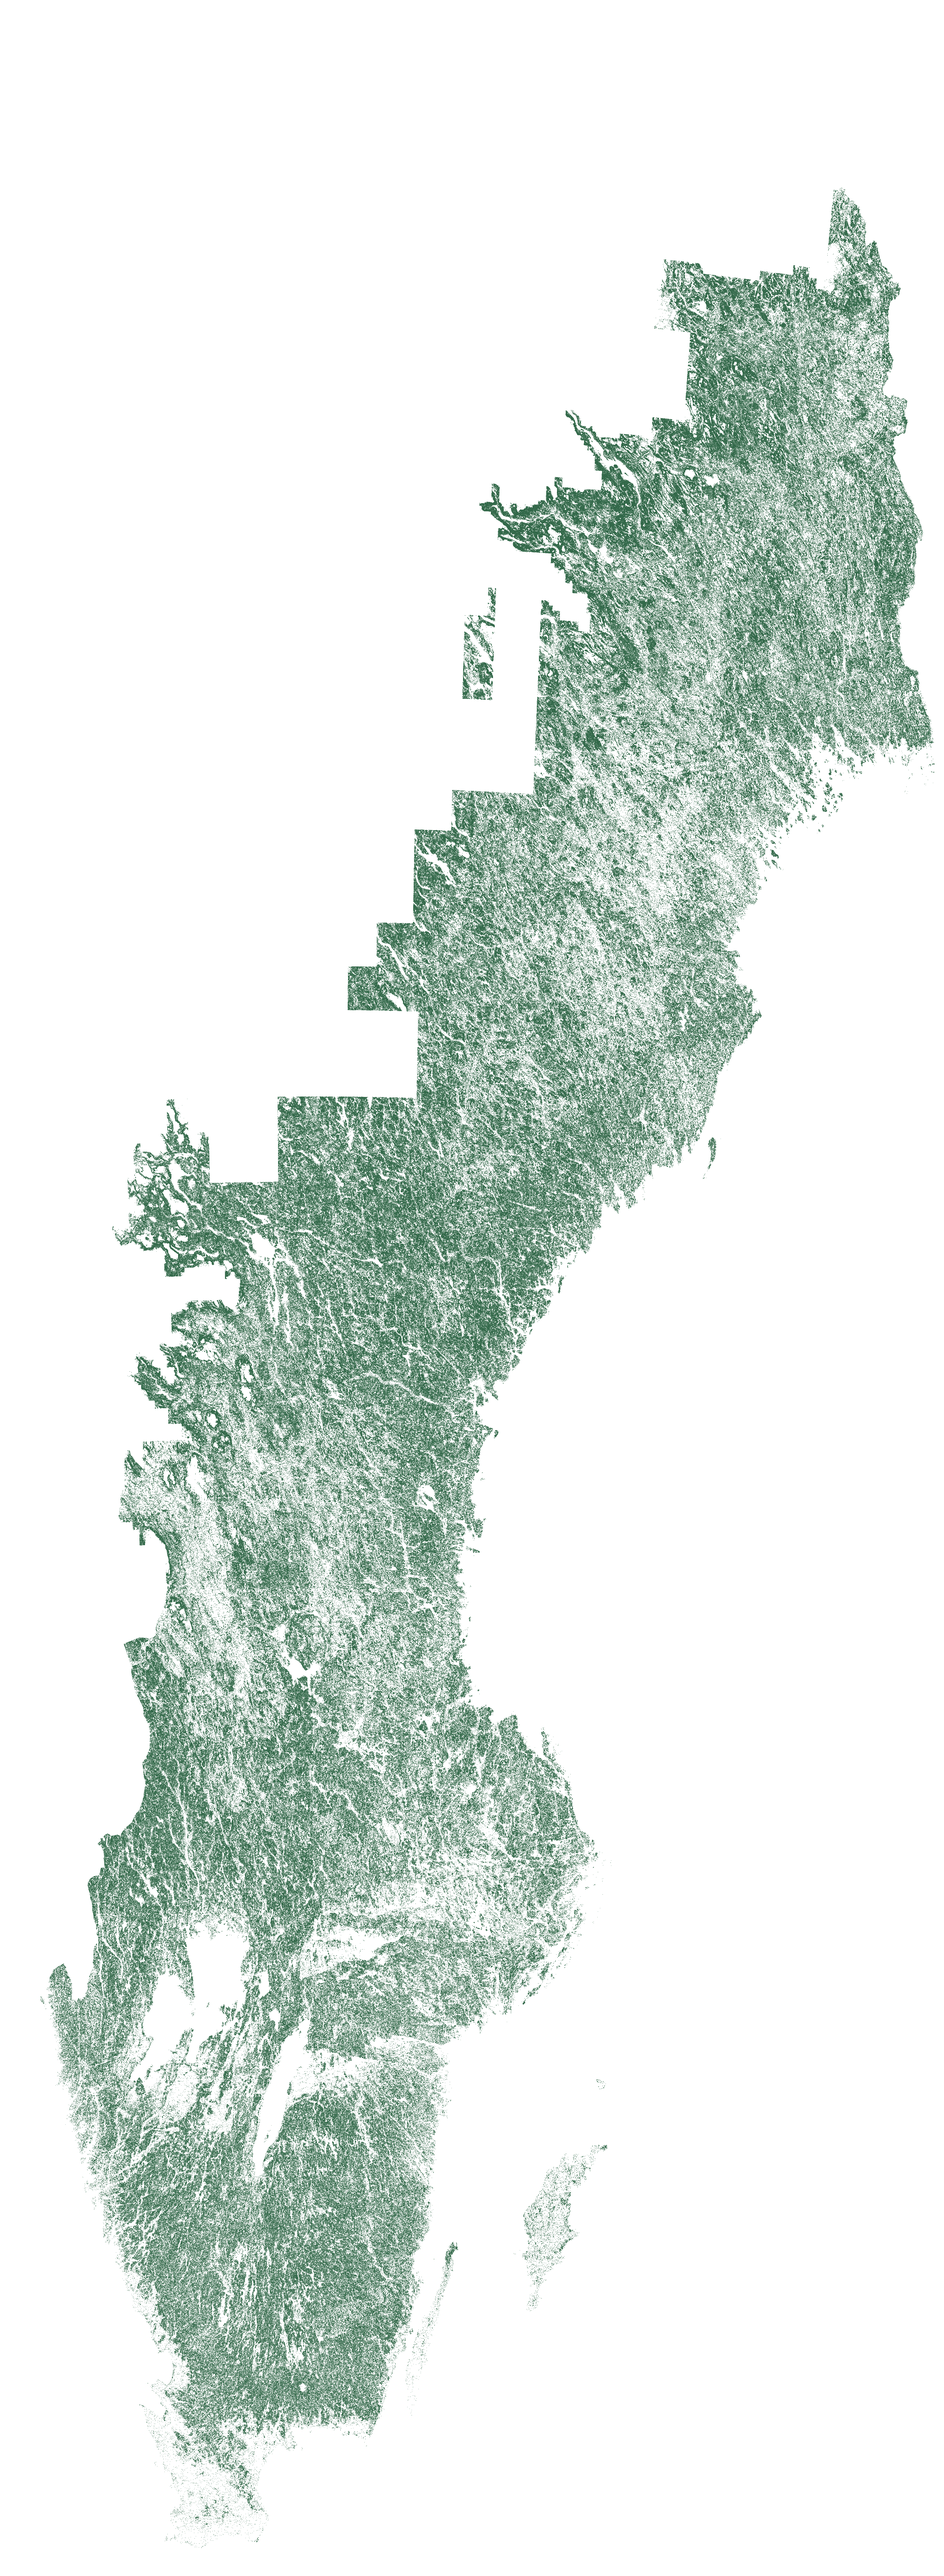
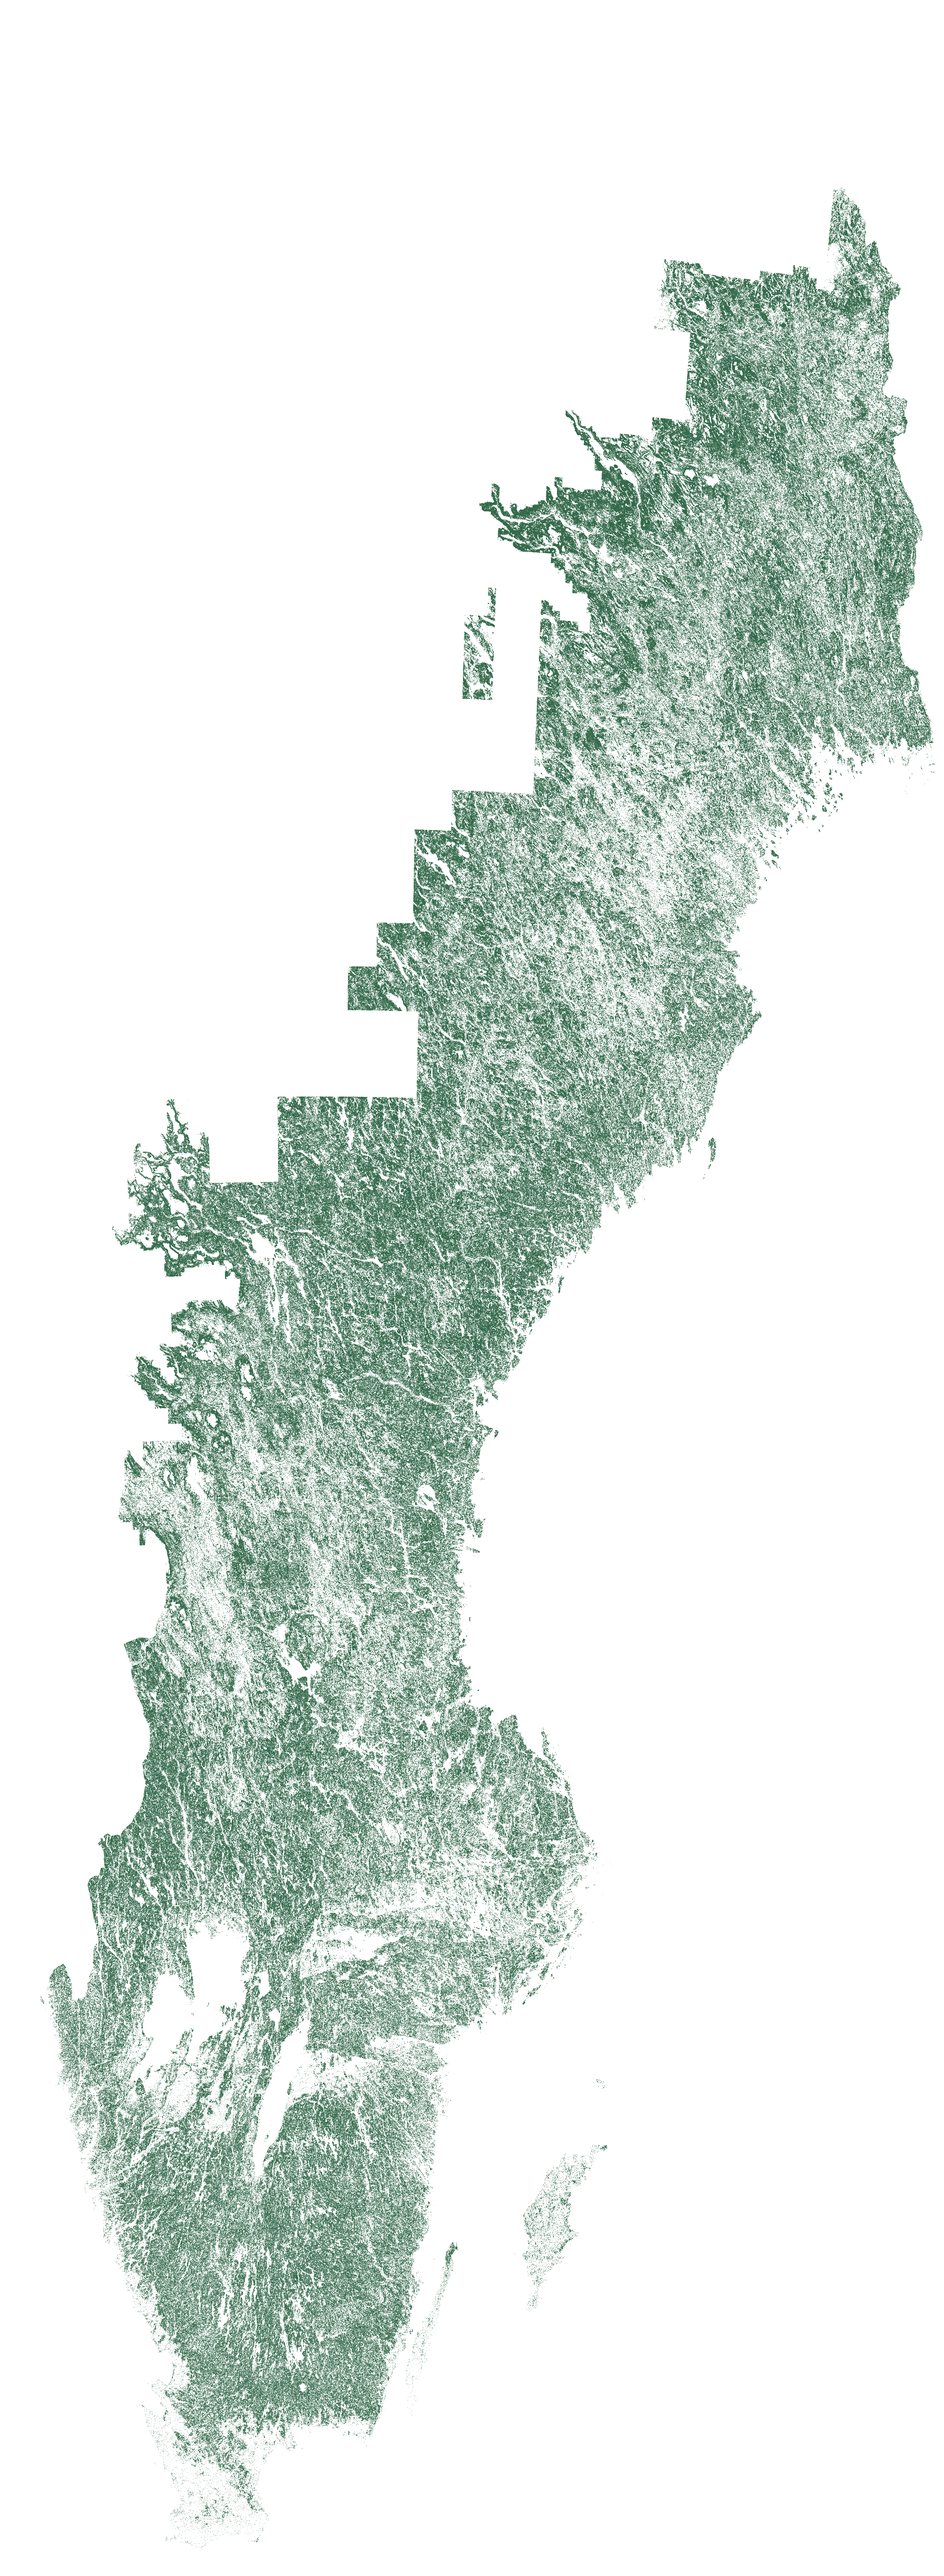
fix: keep forest overlays off water

diff --git a/sw.js b/sw.js
@@ -1,4 +1,4 @@
-const CACHE = 'sweden-mushrooms-v4';
+const CACHE = 'sweden-mushrooms-v5';
 const APP_URLS = [
   './',
   'index.html',

diff --git a/scripts/build_sweden_habitat.py b/scripts/build_sweden_habitat.py
@@ -53,6 +53,7 @@ PRESERVATION_FACTOR = 2
 
 FOREST_CLASSES = (23, 43, *range(111, 118), *range(121, 128))
 TEMPORARY_FOREST_CLASSES = (118, 128)
+WATER_CLASSES = (61, 62)
 
 # Absolute scores communicate how strongly a mapped forest class matches each
 # species. Codes 111-117 are firm-ground forest; 121-127 are wet-ground forest.
@@ -160,6 +161,26 @@ def reduce_coverage(mask: np.ndarray) -> np.ndarray:
     return mask.reshape(
         HEIGHT, PRESERVATION_FACTOR, WIDTH, PRESERVATION_FACTOR
     ).sum(axis=(1, 3))
+
+
+def classify_surface_coverage(
+    forest_coverage: np.ndarray,
+    temporary_coverage: np.ndarray,
+    water_coverage: np.ndarray,
+) -> tuple[np.ndarray, np.ndarray]:
+    """Resolve mixed web cells conservatively at shorelines.
+
+    A single forest sample must not paint an entire web cell when water is at
+    least as common in that cell. Inland fragments remain visible because the
+    restriction applies only to cells containing sampled water.
+    """
+    forest_mask = (forest_coverage > 0) & (forest_coverage > water_coverage)
+    temporary_mask = (
+        ~forest_mask
+        & (temporary_coverage > 0)
+        & (temporary_coverage > water_coverage)
+    )
+    return forest_mask, temporary_mask
 
 
 def reduce_mean(values: np.ndarray) -> np.ndarray:
@@ -294,10 +315,17 @@ def main() -> None:
     classes = read_grid(args.base_raster, categorical=True)
     fine_forest_mask = np.isin(classes, FOREST_CLASSES)
     fine_temporary_mask = np.isin(classes, TEMPORARY_FOREST_CLASSES)
+    fine_water_mask = np.isin(classes, WATER_CLASSES)
     forest_coverage = reduce_coverage(fine_forest_mask)
     temporary_coverage = reduce_coverage(fine_temporary_mask)
-    forest_mask = forest_coverage > 0
-    temporary_mask = (~forest_mask) & (temporary_coverage > 0)
+    water_coverage = reduce_coverage(fine_water_mask)
+    forest_mask, temporary_mask = classify_surface_coverage(
+        forest_coverage, temporary_coverage, water_coverage
+    )
+    display_forest_coverage = np.where(forest_mask, forest_coverage, 0)
+    display_temporary_coverage = np.where(
+        temporary_mask, temporary_coverage, 0
+    )
 
     soil_classes = read_soil_grid(args.soil_geojson) if args.soil_geojson else None
     if soil_classes is not None:
@@ -319,7 +347,9 @@ def main() -> None:
         args.output_dir / "forest-mask.png", compress_level=6
     )
     Image.fromarray(
-        np.rint(forest_coverage / (PRESERVATION_FACTOR**2) * 255).astype(np.uint8)
+        np.rint(
+            display_forest_coverage / (PRESERVATION_FACTOR**2) * 255
+        ).astype(np.uint8)
     ).save(args.output_dir / "forest-coverage.png", compress_level=6)
     forest_state = np.zeros(forest_mask.shape, dtype=np.uint8)
     forest_state[forest_mask] = 1
@@ -328,7 +358,9 @@ def main() -> None:
         args.output_dir / "forest-state.png", compress_level=6
     )
     Image.fromarray(
-        make_forest_reference(forest_coverage, temporary_coverage)
+        make_forest_reference(
+            display_forest_coverage, display_temporary_coverage
+        )
     ).save(
         args.output_dir / "forest-reference.png", compress_level=6
     )
@@ -337,6 +369,7 @@ def main() -> None:
     stats: dict[str, dict[str, float]] = {}
     for species, values in CLASS_SCORES.items():
         score = reduce_max(class_score(classes, values))
+        score[~forest_mask] = 0
 
         # If soil data is available, refine the score (Phase 1.3)
         if soil_web is not None and species in SOIL_PREFERENCE:
@@ -380,12 +413,14 @@ def main() -> None:
         "preservationFactor": PRESERVATION_FACTOR,
         "aggregation": (
             "nearest samples at 2x web resolution, then maximum suitability "
-            "and forest presence across each 2x2 group"
+            "across each 2x2 group; mixed shoreline cells are forest only "
+            "when forest samples outnumber water samples"
         ),
         "webRasterMeaning": "forest-type suitability, not full habitat or occurrence probability",
         "input": args.base_raster.name,
         "forestClasses": list(FOREST_CLASSES),
         "temporaryForestClasses": list(TEMPORARY_FOREST_CLASSES),
+        "waterClasses": list(WATER_CLASSES),
         "classScores": CLASS_SCORES,
         "displayBands": {
             "hidden": "<40",

diff --git a/tests/test_sweden_habitat.py b/tests/test_sweden_habitat.py
@@ -48,6 +48,32 @@ class TestClassScores:
         result = reduce_coverage(mask)
         assert result[0, 0] == 2  # 2 of 4 subcells
 
+    def test_water_dominant_cell_is_not_displayed_as_forest(self):
+        from build_sweden_habitat import classify_surface_coverage
+
+        forest, temporary = classify_surface_coverage(
+            np.array([[1, 2, 1]], dtype=np.uint8),
+            np.array([[0, 0, 0]], dtype=np.uint8),
+            np.array([[3, 2, 0]], dtype=np.uint8),
+        )
+
+        # Water majority and a water/forest tie are both hidden. An inland
+        # fragment is preserved when no sampled water competes with it.
+        assert forest.tolist() == [[False, False, True]]
+        assert not temporary.any()
+
+    def test_water_dominant_cell_is_not_temporary_forest(self):
+        from build_sweden_habitat import classify_surface_coverage
+
+        forest, temporary = classify_surface_coverage(
+            np.zeros((1, 3), dtype=np.uint8),
+            np.array([[1, 2, 1]], dtype=np.uint8),
+            np.array([[3, 2, 0]], dtype=np.uint8),
+        )
+
+        assert not forest.any()
+        assert temporary.tolist() == [[False, False, True]]
+
     def test_reduce_mode_preserves_category(self):
         from build_sweden_habitat import reduce_mode, PRESERVATION_FACTOR, HEIGHT, WIDTH
         values = np.zeros((HEIGHT * PRESERVATION_FACTOR, WIDTH * PRESERVATION_FACTOR), dtype=np.uint8)
